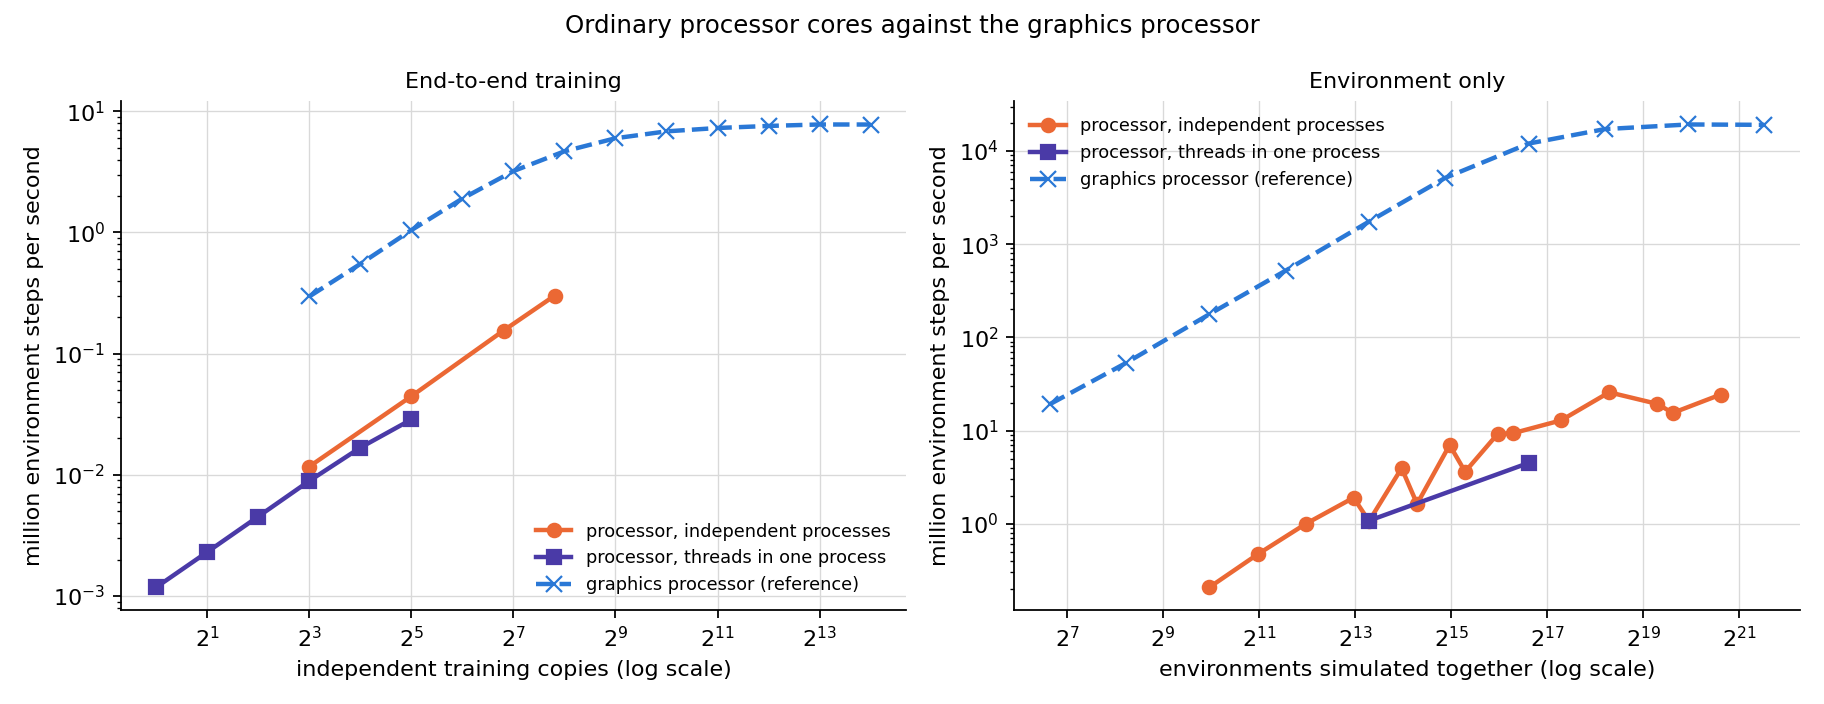
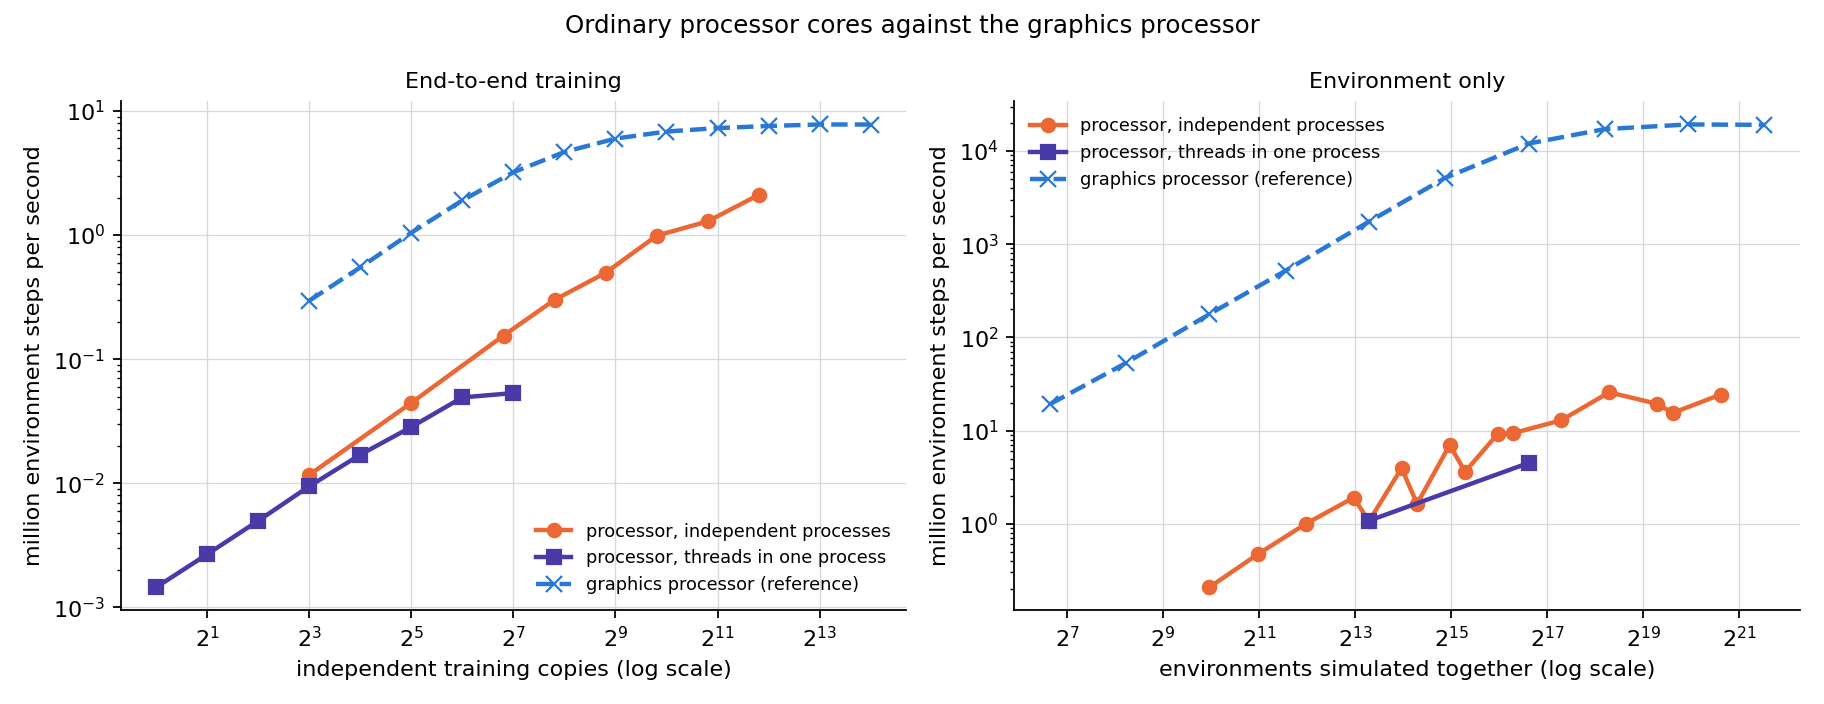
processor comparison: final jaguar03 measurements folded into the report
Claude-Session: https://claude.ai/code/session_015j6YeWp1Vn9h1zKwtPG3mG

diff --git a/09_parallelization/report/2026-08-15-pointmaze-gpu-parallelization/code/section_times.py b/09_parallelization/report/2026-08-15-pointmaze-gpu-parallelization/code/section_times.py
@@ -16,6 +16,7 @@ import re
 import subprocess
 from datetime import datetime
 from pathlib import Path
+from zoneinfo import ZoneInfo
 
 HERE = Path(__file__).resolve().parent
 MANIFEST = HERE / "section_times.json"
@@ -103,9 +104,19 @@ def anchor(heading: str) -> str:
     return re.sub(r"-+", "-", slug)
 
 
-def short(iso: str) -> str:
-    """An ISO timestamp shortened for a table cell: 2026-08-15 04:45."""
-    return iso[:16].replace("T", " ") if iso else "—"
+def short(iso: str, seconds: bool = False) -> str:
+    """A stored timestamp rendered for display: Pacific Time with an explicit marker.
+
+    The servers run on Eastern Time, so every stored timestamp carries an Eastern offset;
+    the reader works in Pacific. The stored value keeps its own zone (nothing is lost); only
+    this display converts.
+
+    before: "2026-08-15T13:39:02-04:00"  after: "2026-08-15 10:39 PT"
+    """
+    if not iso:
+        return "—"
+    when = datetime.fromisoformat(iso).astimezone(ZoneInfo("America/Los_Angeles"))
+    return when.strftime("%Y-%m-%d %H:%M:%S PT" if seconds else "%Y-%m-%d %H:%M PT")
 
 
 def table_of_contents(order, manifest) -> str:
@@ -120,7 +131,9 @@ def table_of_contents(order, manifest) -> str:
                   f"| {short(t.get('last_modified'))} |")
     md.append("\n*Times are when a section's text first appeared in this document and when it "
               "last changed, taken from the document's version history. A section whose numbers "
-              "were re-measured shows a later change time.*\n")
+              "were re-measured shows a later change time. All times are Pacific (PT); the "
+              "machines that produced them run on Eastern Time and the values are converted "
+              "for display.*\n")
     return "\n".join(md)
 
 

diff --git a/09_parallelization/report/2026-08-15-pointmaze-gpu-parallelization/code/make_artifact_html.py b/09_parallelization/report/2026-08-15-pointmaze-gpu-parallelization/code/make_artifact_html.py
@@ -8,7 +8,9 @@ Run: <python with markdown> make_artifact_html.py  ->  ../report_page.html
 """
 import base64
 import re
+from datetime import datetime
 from pathlib import Path
+from zoneinfo import ZoneInfo
 
 import markdown
 
@@ -95,9 +97,12 @@ em { color: var(--ink-2); }
 body = body.replace("<table>", '<div class="tablewrap"><table>').replace(
     "</table>", "</table></div>")
 
+# the header carries the time this page was built, in the reader's zone (the machines run
+# on Eastern Time, so the value is converted rather than printed as the server sees it)
+built = datetime.now(ZoneInfo("America/Los_Angeles")).strftime("%Y-%m-%d %H:%M PT")
 meta = ('<div class="meta">'
         '<span>hardware <b>H100 NVL, serval05</b></span>'
-        '<span>date <b>2026-08-15</b></span>'
+        f'<span>generated <b>{built}</b></span>'
         '<span>repo <b>RND/09_parallelization</b></span>'
         '<span>source <b>report.md (generated from benchmark JSONs)</b></span>'
         '</div>')

diff --git a/09_parallelization/report/2026-08-15-pointmaze-gpu-parallelization/report.md b/09_parallelization/report/2026-08-15-pointmaze-gpu-parallelization/report.md
@@ -21,24 +21,24 @@ what each round changed, then the training campaign and the sweep.
 
 | section | first written | last changed |
 |---|---|---|
-| [Environment correctness (all three implementations)](#environment-correctness-all-three-implementations) | 2026-08-15 03:22 | 2026-08-15 03:22 |
-| [Module 1 — environment throughput](#module-1-environment-throughput) | 2026-08-15 03:22 | 2026-08-15 18:46 |
-| [Module 2 — batched multi-copy trainer throughput](#module-2-batched-multi-copy-trainer-throughput) | 2026-08-15 03:22 | 2026-08-15 03:22 |
-| [Module 3 — end-to-end fusion and the pairing grid](#module-3-end-to-end-fusion-and-the-pairing-grid) | 2026-08-15 03:22 | 2026-08-15 13:53 |
-| [Scaling the number of independent training copies](#scaling-the-number-of-independent-training-copies) | 2026-08-15 03:22 | 2026-08-15 14:54 |
-| [Profiling breakdown (C=128)](#profiling-breakdown-c128) | 2026-08-15 03:22 | 2026-08-15 04:35 |
-| [Before/after optimization at the final-run sizes (8-128 copies)](#beforeafter-optimization-at-the-final-run-sizes-8-128-copies) | 2026-08-15 04:35 | 2026-08-15 14:54 |
-| [Final training campaign — 8 to 128 independent RND runs (PyTorch)](#final-training-campaign-8-to-128-independent-rnd-runs-pytorch) | 2026-08-15 04:35 | 2026-08-15 14:54 |
-| [Sweeping learning rates across copy groups](#sweeping-learning-rates-across-copy-groups) | 2026-08-15 13:39 | 2026-08-15 16:34 |
-| [The three rounds](#the-three-rounds) | 2026-08-15 13:49 | 2026-08-15 13:49 |
-| [What made it fast (and what did not)](#what-made-it-fast-and-what-did-not) | 2026-08-15 03:22 | 2026-08-15 03:22 |
-| [Reproduction](#reproduction) | 2026-08-15 03:22 | 2026-08-15 03:22 |
-| [How far from the hardware ceiling](#how-far-from-the-hardware-ceiling) | 2026-08-15 18:46 | 2026-08-15 18:46 |
-| [The same work on ordinary processor cores](#the-same-work-on-ordinary-processor-cores) | 2026-08-15 18:46 | 2026-08-15 18:46 |
-| [Which implementation to use](#which-implementation-to-use) | 2026-08-15 18:46 | 2026-08-15 18:46 |
-| [Feature parity between the two trainers](#feature-parity-between-the-two-trainers) | 2026-08-15 18:46 | 2026-08-15 18:46 |
+| [Environment correctness (all three implementations)](#environment-correctness-all-three-implementations) | 2026-08-15 00:22 PT | 2026-08-15 00:22 PT |
+| [Module 1 — environment throughput](#module-1-environment-throughput) | 2026-08-15 00:22 PT | 2026-08-15 15:46 PT |
+| [Module 2 — batched multi-copy trainer throughput](#module-2-batched-multi-copy-trainer-throughput) | 2026-08-15 00:22 PT | 2026-08-15 00:22 PT |
+| [Module 3 — end-to-end fusion and the pairing grid](#module-3-end-to-end-fusion-and-the-pairing-grid) | 2026-08-15 00:22 PT | 2026-08-15 10:53 PT |
+| [Scaling the number of independent training copies](#scaling-the-number-of-independent-training-copies) | 2026-08-15 00:22 PT | 2026-08-15 11:54 PT |
+| [Profiling breakdown (C=128)](#profiling-breakdown-c128) | 2026-08-15 00:22 PT | 2026-08-15 01:35 PT |
+| [Before/after optimization at the final-run sizes (8-128 copies)](#beforeafter-optimization-at-the-final-run-sizes-8-128-copies) | 2026-08-15 01:35 PT | 2026-08-15 11:54 PT |
+| [Final training campaign — 8 to 128 independent RND runs (PyTorch)](#final-training-campaign-8-to-128-independent-rnd-runs-pytorch) | 2026-08-15 01:35 PT | 2026-08-15 11:54 PT |
+| [Sweeping learning rates across copy groups](#sweeping-learning-rates-across-copy-groups) | 2026-08-15 10:39 PT | 2026-08-15 13:34 PT |
+| [The three rounds](#the-three-rounds) | 2026-08-15 10:49 PT | 2026-08-15 10:49 PT |
+| [What made it fast (and what did not)](#what-made-it-fast-and-what-did-not) | 2026-08-15 00:22 PT | 2026-08-15 00:22 PT |
+| [Reproduction](#reproduction) | 2026-08-15 00:22 PT | 2026-08-15 00:22 PT |
+| [How far from the hardware ceiling](#how-far-from-the-hardware-ceiling) | 2026-08-15 15:46 PT | 2026-08-15 15:46 PT |
+| [The same work on ordinary processor cores](#the-same-work-on-ordinary-processor-cores) | 2026-08-15 15:46 PT | 2026-08-15 15:53 PT |
+| [Which implementation to use](#which-implementation-to-use) | 2026-08-15 15:46 PT | 2026-08-15 15:46 PT |
+| [Feature parity between the two trainers](#feature-parity-between-the-two-trainers) | 2026-08-15 15:46 PT | 2026-08-15 15:46 PT |
 
-*Times are when a section's text first appeared in this document and when it last changed, taken from the document's version history. A section whose numbers were re-measured shows a later change time.*
+*Times are when a section's text first appeared in this document and when it last changed, taken from the document's version history. A section whose numbers were re-measured shows a later change time. All times are Pacific (PT); the machines that produced them run on Eastern Time and the values are converted for display.*
 
 ## Environment correctness (all three implementations)
 
@@ -686,6 +686,13 @@ End-to-end training on the same node:
 | processes, epoch_minibatch | 32 | 128 | 0.710 | 0.0958 | 749 |
 | processes, full_batch | 80 | 80 | 0.872 | 0.0469 | 586 |
 | processes, epoch_minibatch | 224 | 224 | 0.379 | 0.3007 | 1,343 |
+| processes, epoch_minibatch | 224 | 896 | 0.456 | 0.9887 | 1,104 |
+| processes, epoch_minibatch | 224 | 3584 | 0.881 | 2.1077 | 588 |
+| threads, epoch_minibatch | 8 | 32 | 0.576 | 0.0284 | 889 |
+| threads, epoch_minibatch | 8 | 128 | 1.235 | 0.0531 | 414 |
+| threads, epoch_minibatch | 112 | 32 | 0.764 | 0.0214 | 670 |
+| threads, epoch_minibatch | 112 | 128 | 1.229 | 0.0533 | 417 |
+| processes, full_batch | 224 | 224 | 0.326 | 0.3527 | 1,574 |
 
 Putting the two platforms beside each other: for the environment alone the graphics processor is
 about seven hundred and fifty times faster (19,300 against 25.7 million steps per second); for

diff --git a/09_parallelization/report/2026-08-15-gpu-parallel-rl-environment-training-endtoend/report.md b/09_parallelization/report/2026-08-15-gpu-parallel-rl-environment-training-endtoend/report.md
@@ -450,9 +450,13 @@ The same campaign was run before and after the second round of optimisation work
 
 Every number so far came from a graphics processor. A reader deciding where to run this work
 needs to know what the alternative gives, so the same training loop and the same environment
-were measured on ordinary processor cores. The measurements below ran on **jaguar03**, held
-exclusively — no other job shared the machine — so the timings are not contaminated by a
-neighbour.
+were measured on ordinary processor cores. The training measurements below ran on **jaguar03**
+(AMD EPYC 7663, 224 logical processors, 1 TB of memory), held exclusively — no other job shared
+the machine — so the timings are not contaminated by a neighbour. It was chosen as the largest
+completely idle node on the cluster; a node with more cores was available but already had
+another job on it, which is exactly the contamination this run set out to avoid. The
+environment-only measurements come from a second node, puma01 (Intel Ice Lake, 160 logical
+processors), also held under reservation.
 
 Nothing in the algorithm changed. What changed is that the graphics-processor features the
 optimisation work relied on — recording an iteration as a replayable sequence, the
@@ -474,12 +478,14 @@ The measurements settle which is better, and the answer is not the obvious one.
 
 | copies | threads | seconds per iteration | million steps per second | thousand steps per second per copy |
 |---|---|---|---|---|
-| 1 | 8 | 0.433 | 0.0012 | 1.18 |
-| 2 | 8 | 0.444 | 0.0023 | 1.15 |
-| 4 | 8 | 0.452 | 0.0045 | 1.13 |
-| 8 | 8 | 0.460 | 0.0089 | 1.11 |
-| 16 | 8 | 0.489 | 0.0168 | 1.05 |
-| 32 | 8 | 0.573 | 0.0286 | 0.89 |
+| 1 | 8 | 0.352 | 0.0015 | 1.45 |
+| 2 | 8 | 0.382 | 0.0027 | 1.34 |
+| 4 | 8 | 0.410 | 0.0050 | 1.25 |
+| 8 | 8 | 0.433 | 0.0095 | 1.18 |
+| 16 | 8 | 0.482 | 0.0170 | 1.06 |
+| 32 | 8 | 0.576 | 0.0284 | 0.89 |
+| 64 | 8 | 0.666 | 0.0492 | 0.77 |
+| 128 | 112 | 1.229 | 0.0533 | 0.42 |
 
 *One process, threads varied. Sixteen updates per batch.*
 
@@ -489,6 +495,10 @@ The measurements settle which is better, and the answer is not the obvious one.
 | 32 | 1 | 32 | 0.370 | 0.0445 | 1.39 |
 | 112 | 1 | 112 | 0.370 | 0.1551 | 1.38 |
 | 224 | 1 | 224 | 0.379 | 0.3007 | 1.34 |
+| 112 | 4 | 448 | 0.464 | 0.4967 | 1.11 |
+| 224 | 4 | 896 | 0.456 | 0.9887 | 1.10 |
+| 112 | 16 | 1792 | 0.712 | 1.29 | 0.72 |
+| 224 | 16 | 3584 | 0.881 | 2.11 | 0.59 |
 
 *Independent single-thread processes. Sixteen updates per batch.*
 
@@ -521,13 +531,13 @@ reaches the highest total throughput inside that range.
 |---|---|---|---|---|---|
 | graphics processor, one update per batch | 4,096 | 0.087 | 24.1 | 5.90 | 0.47 |
 | graphics processor, sixteen updates per batch | 4,096 | 0.277 | 7.57 | 1.85 | 1.50 |
-| processor, independent processes, sixteen updates | 224 | 0.379 | 0.3007 | 1.34 | 2.06 |
-| processor, independent processes, one update | 80 | 0.872 | 0.0469 | 0.59 | 4.73 |
-| processor, threads in one process, sixteen updates | 32 | 0.573 | 0.0286 | 0.89 | 3.11 |
+| processor, independent processes, one update | 3,584 | 0.481 | 3.80 | 1.06 | 2.61 |
+| processor, independent processes, sixteen updates | 3,584 | 0.881 | 2.11 | 0.59 | 4.78 |
+| processor, threads in one process, sixteen updates | 128 | 1.229 | 0.0533 | 0.42 | 6.67 |
 
 ![best setup](figures/best_setup.png)
 
-The best graphics-processor configuration reaches 24.1 million environment steps per second at 4,096 copies; the best processor configuration reaches 0.3007 million at 224 copies. That is a factor of **80**. In wall-clock terms, giving every copy ten million environment steps takes 0.47 hours on the graphics processor against 2 hours on the processor node.
+The best graphics-processor configuration reaches 24.1 million environment steps per second at 4,096 copies; the best processor configuration reaches 3.80 million at 3,584 copies. That is a factor of **6**. In wall-clock terms, giving every copy ten million environment steps takes 0.47 hours on the graphics processor against 3 hours on the processor node.
 
 Two qualifications belong with those numbers. The processor figure is for one node held
 exclusively; a cluster with many such nodes multiplies it, and the independent-process
